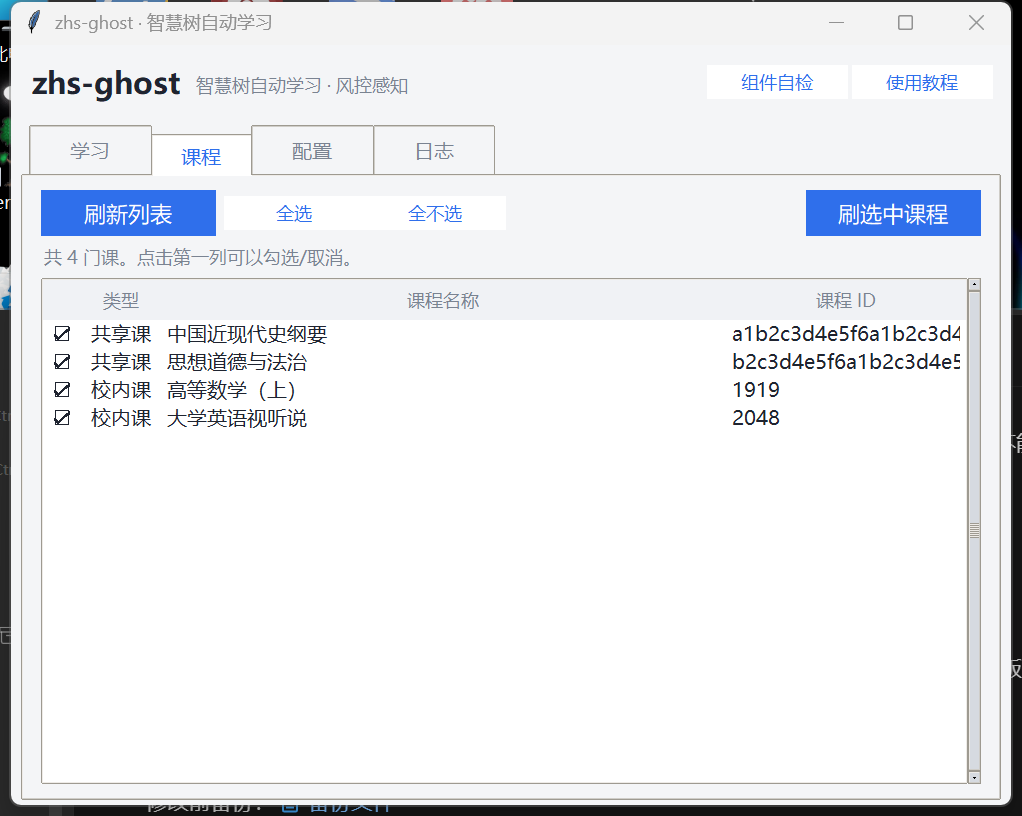
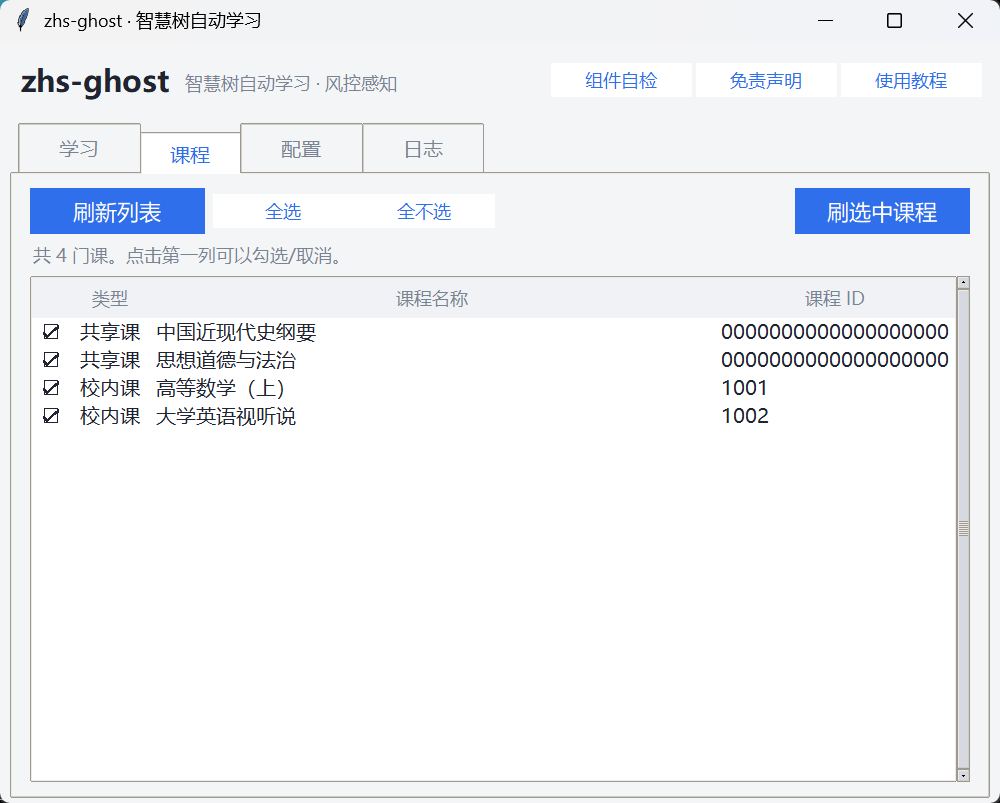
fix(docs): 重建界面截图，不再截入窗口外的内容
两个问题，第二个比第一个严重。

## 1. 截图边界不对，把别的窗口截进来了

截图用的是 GetWindowRect，它返回的是**含 DWM 阴影**的外框 ——
Win10/11 那圈不可见边框大约 8px，于是窗口左右下三边各带进来
一条别的窗口的碎片（放大能看到零星的汉字和字母）。

改用 DwmGetWindowAttribute(DWMWA_EXTENDED_FRAME_BOUNDS) 拿可见边界，
四边再各内缩 2px。新图边缘完全干净。

## 2. 截图脚本会读用户本地的 config.yaml

这张更该修：截图脚本 `MainWindow()` 启动时会加载本地 config.yaml，
而配置页会把里面的账号、**密码**、代理地址、推送 token 原样填进表单 ——
直接截图就等于把这些发到仓库里。

现在整个替换成一份纯默认配置（`Config.from_dict({})`），
并且把 `cfg.save()` 打桩 —— 否则关窗口时 `on_close()` 会把演示数据
写回用户的真实配置文件（这个 bug 之前一直存在，跑一次截图就会
覆盖用户的 config.yaml）。

## 3. 演示数据换成一眼可辨的假值

原来的 `b3f1c0a2-9d4e-4a17-8c55-1e2f3a4b5c6d` 虽然也是脚本里硬编码的
假值（不是真实账号），但看起来太像真的了，容易引起误会。
现在改成全 0 uuid 和 000... 开头的课程 ID。

diff --git a/tests/_screenshot.py b/tests/_screenshot.py
@@ -55,18 +55,32 @@ def main() -> int:
     win.focus_force()
     win.update()
 
-    # 填充一些假数据，不然截图里全是 "-"
-    win.tab_study.set_account(True, "b3f1c0a2-9d4e-4a17-8c55-1e2f3a4b5c6d",
+    # ------------------------------------------------------------------
+    # 把配置换成一份纯默认值。
+    #
+    # MainWindow 启动时会读用户本地的 config.yaml，而配置页会把里面的
+    # 账号、密码、代理、推送 token 原样显示出来 —— 直接截图等于把这些
+    # 发到仓库里。这里整个替换掉，并且把 save() 打桩，
+    # 免得关窗口时 on_close 又把演示数据写回用户的真实配置。
+    # ------------------------------------------------------------------
+    from zhsgo.config import Config
+
+    win.cfg = Config.from_dict({}, HERE)
+    win.cfg.save = lambda *a, **k: ""          # type: ignore[assignment]
+    win.tab_config.reload()
+
+    # 以下全部是编造的演示数据，不来自任何真实账号。
+    win.tab_study.set_account(True, "00000000-0000-0000-0000-000000000000",
                               "今日 45.2/250 分钟 | 会话 1/4 | 本次会话已 12 分钟")
     win.tab_study.update_progress(Progress(
         phase=PHASE_STUDY, course="中国近现代史纲要", video="第一章 进入近代中国 / 1.1 鸦片战争前的中国",
         message="学习中 1.1 鸦片战争前的中国", current=186.0, total=1111.0,
         extra={"reported": 150.0}))
     win.tab_courses.set_courses([
-        {"type": "zhidao", "name": "中国近现代史纲要", "id": "a1b2c3d4e5f6a1b2c3d4e5f6a1b2c3d4"},
-        {"type": "zhidao", "name": "思想道德与法治", "id": "b2c3d4e5f6a1b2c3d4e5f6a1b2c3d4e5"},
-        {"type": "hike", "name": "高等数学（上）", "id": "1919"},
-        {"type": "hike", "name": "大学英语视听说", "id": "2048"},
+        {"type": "zhidao", "name": "中国近现代史纲要", "id": "00000000000000000000000000000001"},
+        {"type": "zhidao", "name": "思想道德与法治", "id": "00000000000000000000000000000002"},
+        {"type": "hike", "name": "高等数学（上）", "id": "1001"},
+        {"type": "hike", "name": "大学英语视听说", "id": "1002"},
     ])
     for line, lvl in (
         ("17:32:01  INFO    开始共享课：中国近现代史纲要", "INFO"),
@@ -82,7 +96,6 @@ def main() -> int:
     ):
         win.tab_log.append(line, lvl)
 
-    win.tab_config.reload()
     win.update()
 
     def capture(index: int, name: str) -> None:
@@ -124,12 +137,28 @@ def _window_rect(win) -> tuple:
 
         hwnd = int(win.wm_frame(), 16)
         rect = wintypes.RECT()
+        # GetWindowRect 给的是**含 DWM 阴影**的外框，Win10/11 上那圈不可见
+        # 边框大约 8px —— 按它裁剪会把窗口旁边别的窗口内容一起截进来。
+        # DWMWA_EXTENDED_FRAME_BOUNDS 才是肉眼可见的窗口边界。
+        DWMWA_EXTENDED_FRAME_BOUNDS = 9
+        hr = ctypes.windll.dwmapi.DwmGetWindowAttribute(
+            wintypes.HWND(hwnd), DWMWA_EXTENDED_FRAME_BOUNDS,
+            ctypes.byref(rect), ctypes.sizeof(rect),
+        )
+        if hr == 0 and rect.right > rect.left and rect.bottom > rect.top:
+            return (rect.left, rect.top, rect.right, rect.bottom)
+
         if ctypes.windll.user32.GetWindowRect(hwnd, ctypes.byref(rect)):
             return (rect.left, rect.top, rect.right, rect.bottom)
     except Exception:
         pass
     x, y = win.winfo_rootx(), win.winfo_rooty()
     return (x, y, x + win.winfo_width(), y + win.winfo_height())
+
+
+# 四边各再内缩一点。窗口有 1px 描边和圆角，贴着边界裁会带进背景色，
+# 放大看就是一圈杂边。
+INSET = 2
 
 
 def _grab(win, _index: int, name: str) -> None:
@@ -140,7 +169,8 @@ def _grab(win, _index: int, name: str) -> None:
     win.update()
 
     left, top, right, bottom = _window_rect(win)
-    img = ImageGrab.grab(bbox=(left, top, right, bottom))
+    bbox = (left + INSET, top + INSET, right - INSET, bottom - INSET)
+    img = ImageGrab.grab(bbox=bbox)
     path = os.path.join(OUT, f"{name}.png")
     img.save(path)
     print(f"  {path}  ({img.width}x{img.height})")
